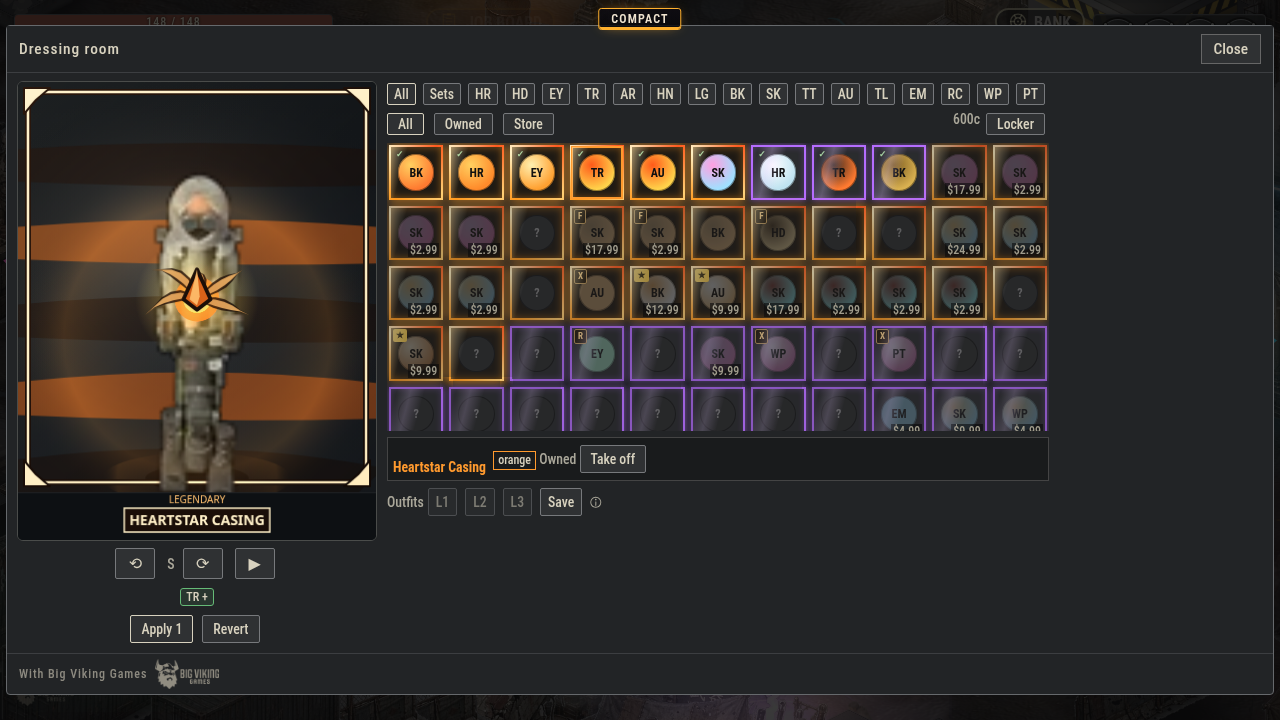
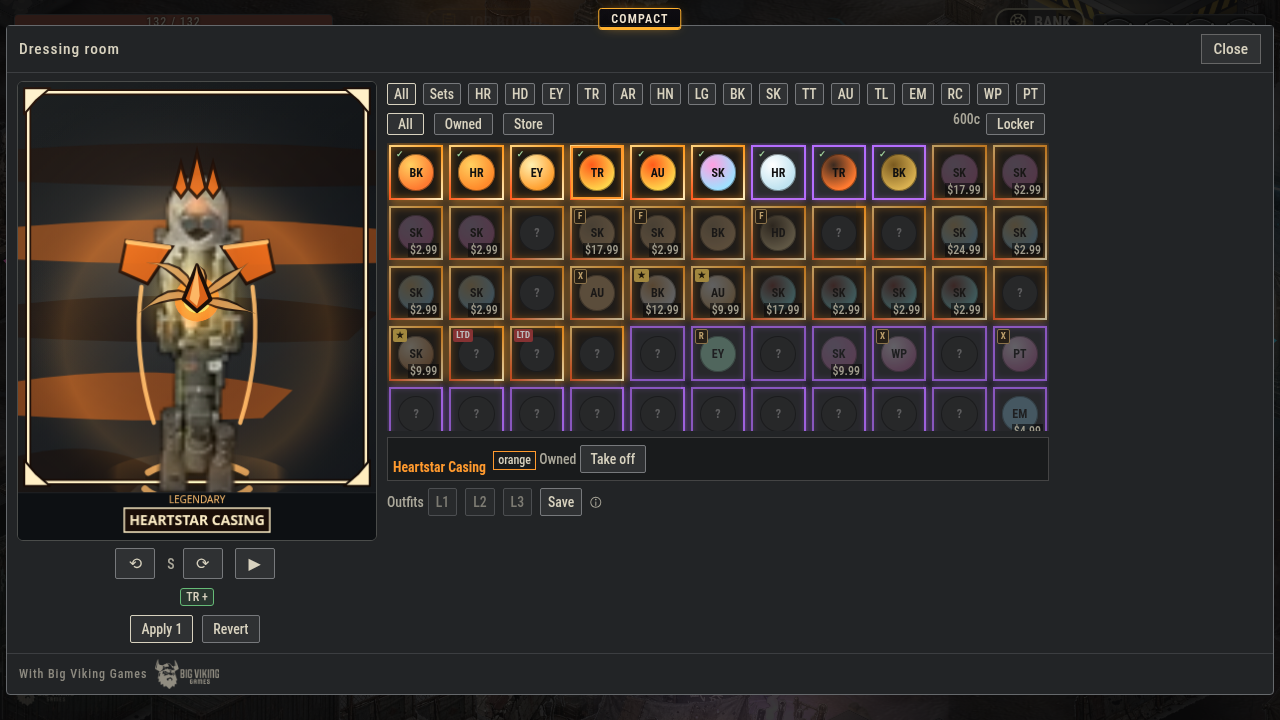
skin fx: in-world readability layer (painted ground mark, shoulder mantle plates + crest for orange, pauldron + halo tick for purple, palette rim), batched to ~4 draw calls/char; signatures for season-1 oranges back_s1_halo/aura_s1_bloom (storm palette); rarity_fx allows a subtle ground mark (<400px

diff --git a/src/cosfx.ts b/src/cosfx.ts
@@ -17,9 +17,10 @@ export const PALETTES: Record<string, [string, string, string, string]> = {
   shimmer: ['#1a0d1e', '#c23fa0', '#ff9be0', '#b48cff'],   // shimmer pink / purple
   chem: ['#0c1a10', '#3fb04a', '#c8ff6a', '#e8ffb0'],      // chem-punk green
   forge: ['#1a0e08', '#d9631a', '#ffc070', '#fff0c8'],     // furnace gold-orange
+  storm: ['#0c0a1e', '#6a5ad8', '#8fe0ff', '#e6d4ff'],     // season 1 signal storm: violet / static cyan
 };
 /** Per-orange-skin signature (theme + palette). Every orange cosmetic must have one (tests/rarity_fx.mjs). */
-export const SIGNATURE: Record<string, { name: string; fx: string; pal: keyof typeof PALETTES }> = {
+export const SIGNATURE: Record<string, { name: string; fx: string; pal: keyof typeof PALETTES; n?: number }> = {
   hair_flame: { name: 'Painted flame locks', fx: 'flame', pal: 'forge' },
   eyes_sun: { name: 'Furnace gaze streaks', fx: 'gaze', pal: 'forge' },
   torso_nova: { name: 'Heartstar inlay', fx: 'veins', pal: 'forge' },
@@ -30,6 +31,8 @@ export const SIGNATURE: Record<string, { name: string; fx: string; pal: keyof ty
   pm_skin_plasma: { name: 'Chem-vein dermis', fx: 'veins', pal: 'chem' },
   pm_aura_swarm: { name: 'Hextech orbit shards', fx: 'swarm', pal: 'hextech' },
   pm_back_chrome: { name: 'Hextech wing panels', fx: 'wings', pal: 'hextech' },
+  back_s1_halo: { name: 'Storm halo wings', fx: 'wings', pal: 'storm' },
+  aura_s1_bloom: { name: 'Static bloom corona', fx: 'swarm', pal: 'storm', n: 4 }, // 4 shards: a sparser corona that reads as stilled static (and keeps the town draw-call budget)
 };
 /** Purple accessory silhouette per slot (one distinct shape per skin slot). */
 export const ACCESSORY: Record<string, string> = { hair: 'crest', head: 'tickring', eyes: 'visor', torso: 'fins', arms: 'bracers', hands: 'orbs', legs: 'anklefins', back: 'shards', skin: 'outline', tattoo: 'glyph', aura: 'mote', trail: 'wake' };
@@ -102,6 +105,7 @@ export function drawRarityFx(k: FxCtx, list: CosDef[], phase: 'back' | 'front') 
   if (o.flo === -1) { o.flo = k.t; if (tier === 'orange' && (id === 'me' || id === 'dr') && k.t - lastFloSound > FLOURISH_SOUND_GAP) { lastFloSound = k.t; onSound?.('cos_flourish_orange', id); } }
   const fc = red ? { k: 0, s: 0 } : flourishCurve(k.t - o.flo);
   c.save();
+  readable(k, list, tier, phase, t);
   if (phase === 'back') {
     const dt = Math.max(0, Math.min(.1, k.t - o.t)); o.t = k.t; const dx = x - o.ax, dy = y - o.ay; o.ax = x; o.ay = y;
     if (tier === 'orange') {
@@ -124,6 +128,34 @@ export function drawRarityFx(k: FxCtx, list: CosDef[], phase: 'back' | 'front') 
   c.restore();
 }
 
+// ------------------------------------------------------------------ in-world readability (docs/RARITY_FX.md "Readability")
+// At town zoom a character is ~40 px tall, so inlays alone vanish. Three restrained, static-shaped layers make the tier read at a glance:
+//  1. ground mark: a painted brush crescent under the feet (two tapered strokes), tier palette; orange also a faint warm pool.
+//  2. silhouette: orange = flat mantle plates on both shoulders + a 3-shard crest; purple = one angled pauldron plate + a thin halo tick.
+//  3. palette rim: an ink-backed rim line down the lit side (orange both sides) so the outline separates from the ground.
+// Sizes have a pixel floor (never thinner than ~1.5 px) so they survive the small in-world scale; all batched paths, no particles.
+function readable(k: FxCtx, list: CosDef[], tier: 'orange' | 'purple', phase: 'back' | 'front', t: number) {
+  const { c, x, y, u } = k; const O = tier === 'orange';
+  const P: string[] = O ? PALETTES[SIGNATURE[list.find(d => d.rarity === 'orange')!.id]?.pal || 'forge'] : ['#140a20', '#7a4ad0', '#efe4ff', PURPLE];
+  const px = (v: number) => Math.max(v * u, 1.5); c.lineCap = 'round';
+  // batched paths: every layer below is ONE path, so a character adds ~25 canvas ops (perf_gate draw-call budget)
+  const poly = (pts: number[][]) => { c.moveTo(pts[0][0], pts[0][1]); for (let i = 1; i < pts.length; i++) c.lineTo(pts[i][0], pts[i][1]); c.closePath(); };
+  if (phase === 'back') {
+    // 1. ground mark: two open brush arcs on the iso floor (front + back halves, gaps at the sides), palette light
+    c.beginPath(); c.ellipse(x, y + .6 * u, 9 * u, 3.2 * u, 0, .35, Math.PI - .35); c.moveTo(x - 9 * u * Math.cos(.5), y + .6 * u - 3.2 * u * Math.sin(.5)); c.ellipse(x, y + .6 * u, 9 * u, 3.2 * u, 0, Math.PI + .5, -.5);
+    c.globalAlpha = O ? .75 : .6; c.strokeStyle = O ? P[2] : P[3]; c.lineWidth = px(O ? 1.1 : .8); c.stroke();
+    if (!O) { c.beginPath(); c.ellipse(x, y - 49 * u, 5.5 * u, 1.7 * u, 0, Math.PI * 1.05, Math.PI * 1.95); c.globalAlpha = .8; c.strokeStyle = P[0]; c.lineWidth = px(1.4); c.stroke(); c.strokeStyle = P[3]; c.lineWidth = px(.8); c.stroke(); }
+    c.globalAlpha = 1; return;
+  }
+  // 2. silhouette pieces: shoulder mantle plate(s) (+ orange crest of 3 shards), one fill + one ink stroke
+  c.beginPath(); for (const s of O ? [-1, 1] : [-1]) poly([[x + s * 4 * u, y - 37.5 * u], [x + s * 11.5 * u, y - 38.5 * u], [x + s * 12.5 * u, y - 33.5 * u], [x + s * 8 * u, y - 31.5 * u]]);
+  if (O && !list.some(d => d.rarity === 'orange' && (d.slot === 'head' || d.slot === 'hair'))) for (const [ox, h, w] of [[0, 5.5, 1.4], [-2.6, 3.8, 1.1], [2.6, 3.8, 1.1]]) poly([[x + ox * u, y - (47 + h * (1 + .12 * Math.sin(t * 1.4))) * u], [x + (ox + w) * u, y - 47 * u], [x + ox * u, y - 45.5 * u], [x + (ox - w) * u, y - 47 * u]]);
+  c.globalAlpha = .95; c.fillStyle = P[1]; c.fill(); c.strokeStyle = P[0]; c.lineWidth = px(.5); c.stroke();
+  // 3. palette rim down the lit side(s) + the plate's top edge highlight, one light stroke (the plate already carries the ink outline)
+  c.beginPath(); for (const s of O ? [-1, 1] : [-1]) { c.moveTo(x + s * 4.5 * u, y - 37.4 * u); c.lineTo(x + s * 11.3 * u, y - 38.3 * u); c.moveTo(x + s * 9 * u, y - 31 * u); c.quadraticCurveTo(x + s * 10.5 * u, y - 20 * u, x + s * 7 * u, y - 9 * u); }
+  c.globalAlpha = O ? .9 : .8; c.strokeStyle = O ? P[2] : P[3]; c.lineWidth = px(.7); c.stroke();
+  c.globalAlpha = 1;
+}
 // ------------------------------------------------------------------ orange signatures (integrated on the model, themed palettes)
 function signature(k: FxCtx, d: CosDef, phase: 'back' | 'front', t: number, fc: { k: number; s: number }) {
   const { c, x, y, u } = k; const sg = SIGNATURE[d.id]; if (!sg) return; const P = PALETTES[sg.pal]; const ink = P[0], lw = Math.max(1, .55 * u);
@@ -146,7 +178,7 @@ function signature(k: FxCtx, d: CosDef, phase: 'back' | 'front', t: number, fc: 
       for (const [ix, iy, s] of [[0, -31, 1.3], [-7, -34, .9], [7, -34, .9]]) shard(c, x + ix * u, y + iy * u, 2.2 * u * s * amp, 1.4 * u * s, 0, P, .95);
       const ph = (t * .25) % 1.6; if (ph < 1) { const sy = y - (8 + ph * 36) * u; stroke(c, x - 10 * u, sy + 3 * u, x, sy - 1 * u, x + 10 * u, sy + 2 * u, 2.2 * u, P[2], .35 * Math.sin(ph * Math.PI)); } } break;
     case 'swarm': { // hextech corona: 6 crystal shards on a slow ellipse, depth sorted, gold rim on the near ones
-      const n = 6; for (let i = 0; i < n; i++) { const a = t * .45 + i / n * Math.PI * 2; const z = Math.sin(a); if ((z > 0) !== (phase === 'front')) continue; const r = (13 + fc.k * 5) * u;
+      const n = sg.n || 6; for (let i = 0; i < n; i++) { const a = t * .45 + i / n * Math.PI * 2; const z = Math.sin(a); if ((z > 0) !== (phase === 'front')) continue; const r = (13 + fc.k * 5) * u;
         shard(c, x + Math.cos(a) * r, y - 24 * u + z * 3.5 * u + Math.sin(t + i) * 1.2 * u, (3 + z) * u, 1.6 * u, Math.cos(a) * .4, z > 0 ? [P[0], P[1], P[3], P[3]] : P, .95); } } break;
     case 'chrome': if (phase === 'front') { // hextech seam: gold seam inlay down the cowl + two small crystal studs
       const cy = y - 46 * u; shape(c, [[x - .8 * u, cy - 4 * u], [x + .8 * u, cy - 4 * u], [x + .5 * u, cy + 5 * u], [x - .5 * u, cy + 5 * u]], P[3], ink, lw * .8, .9);
